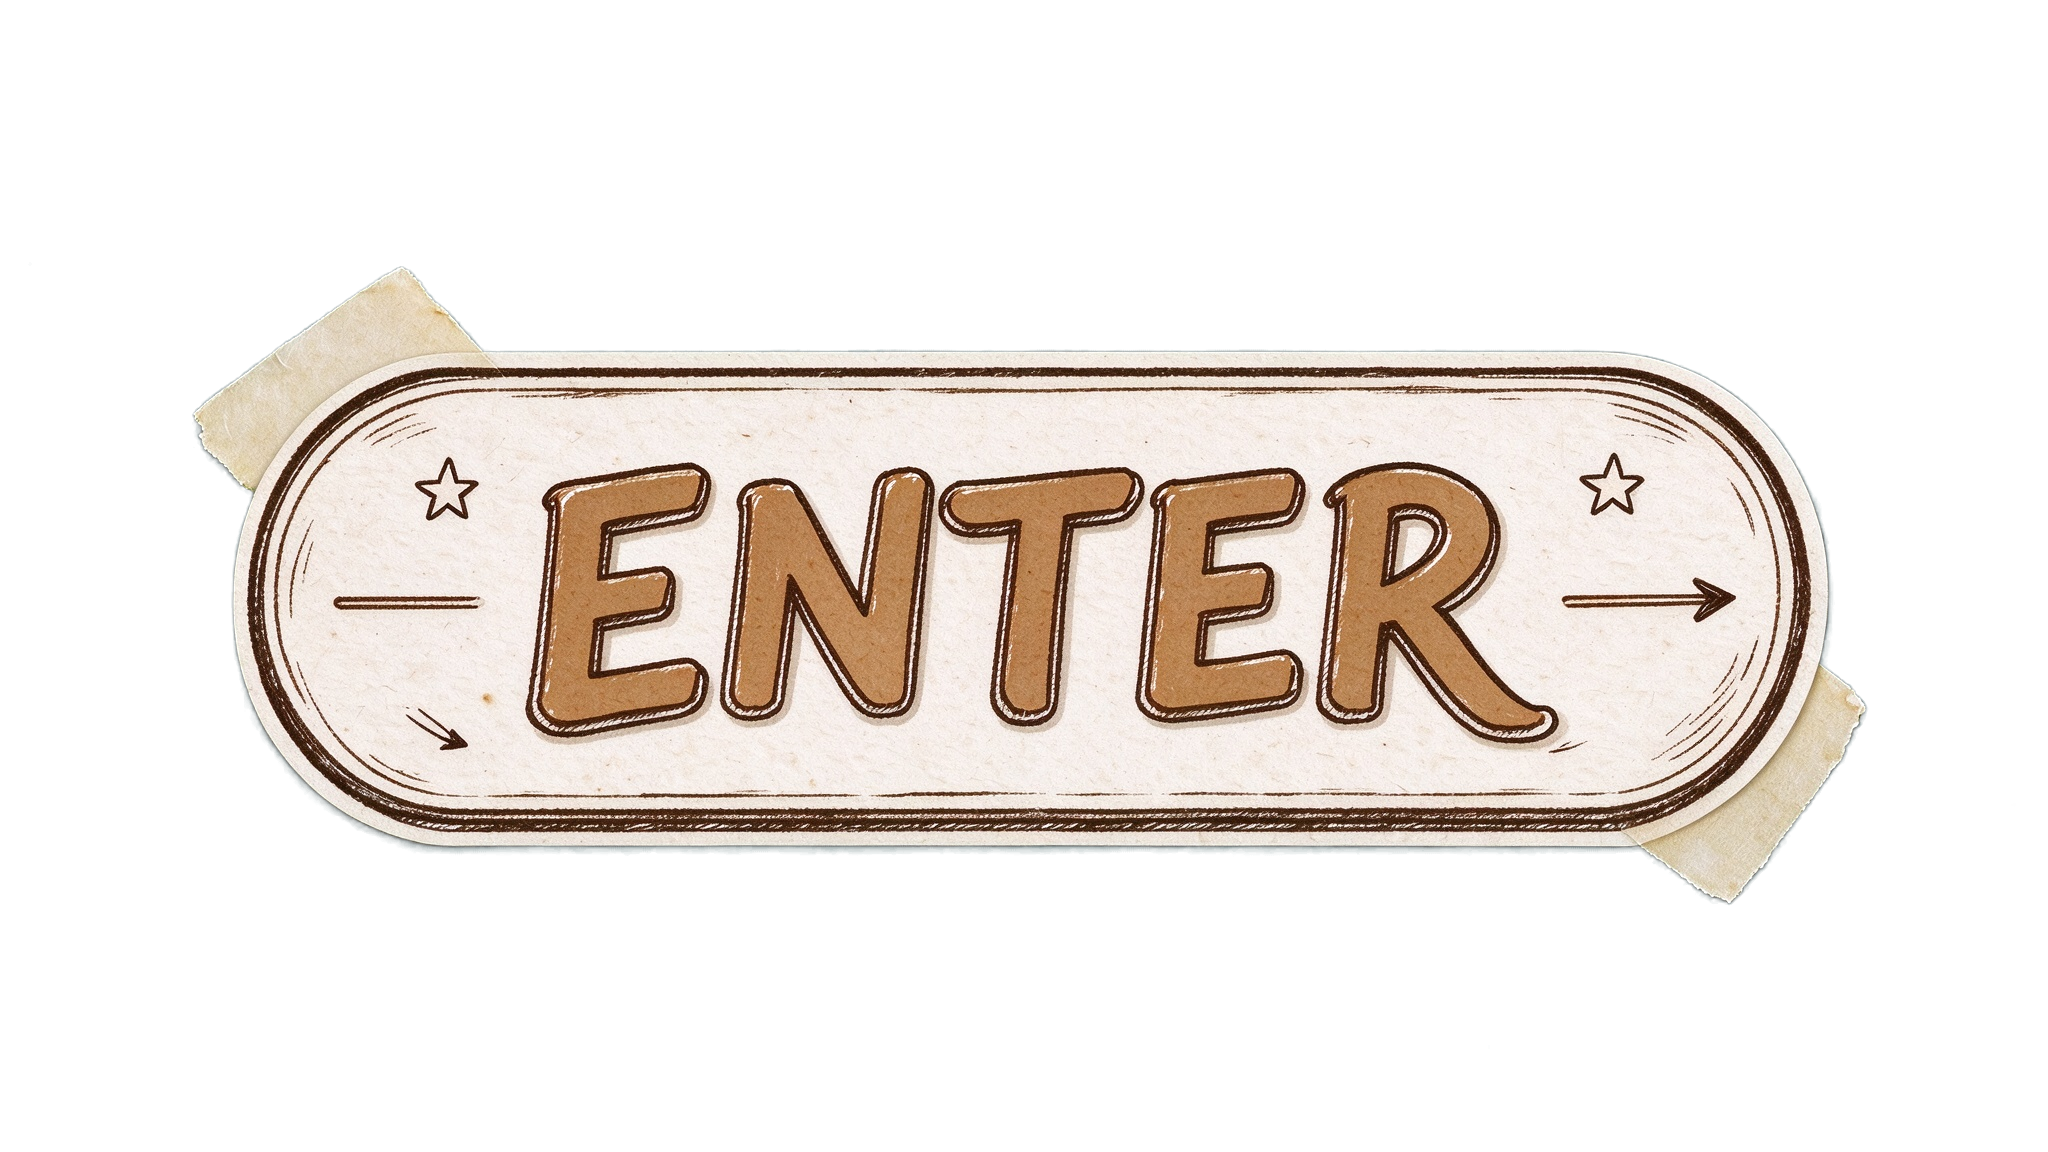
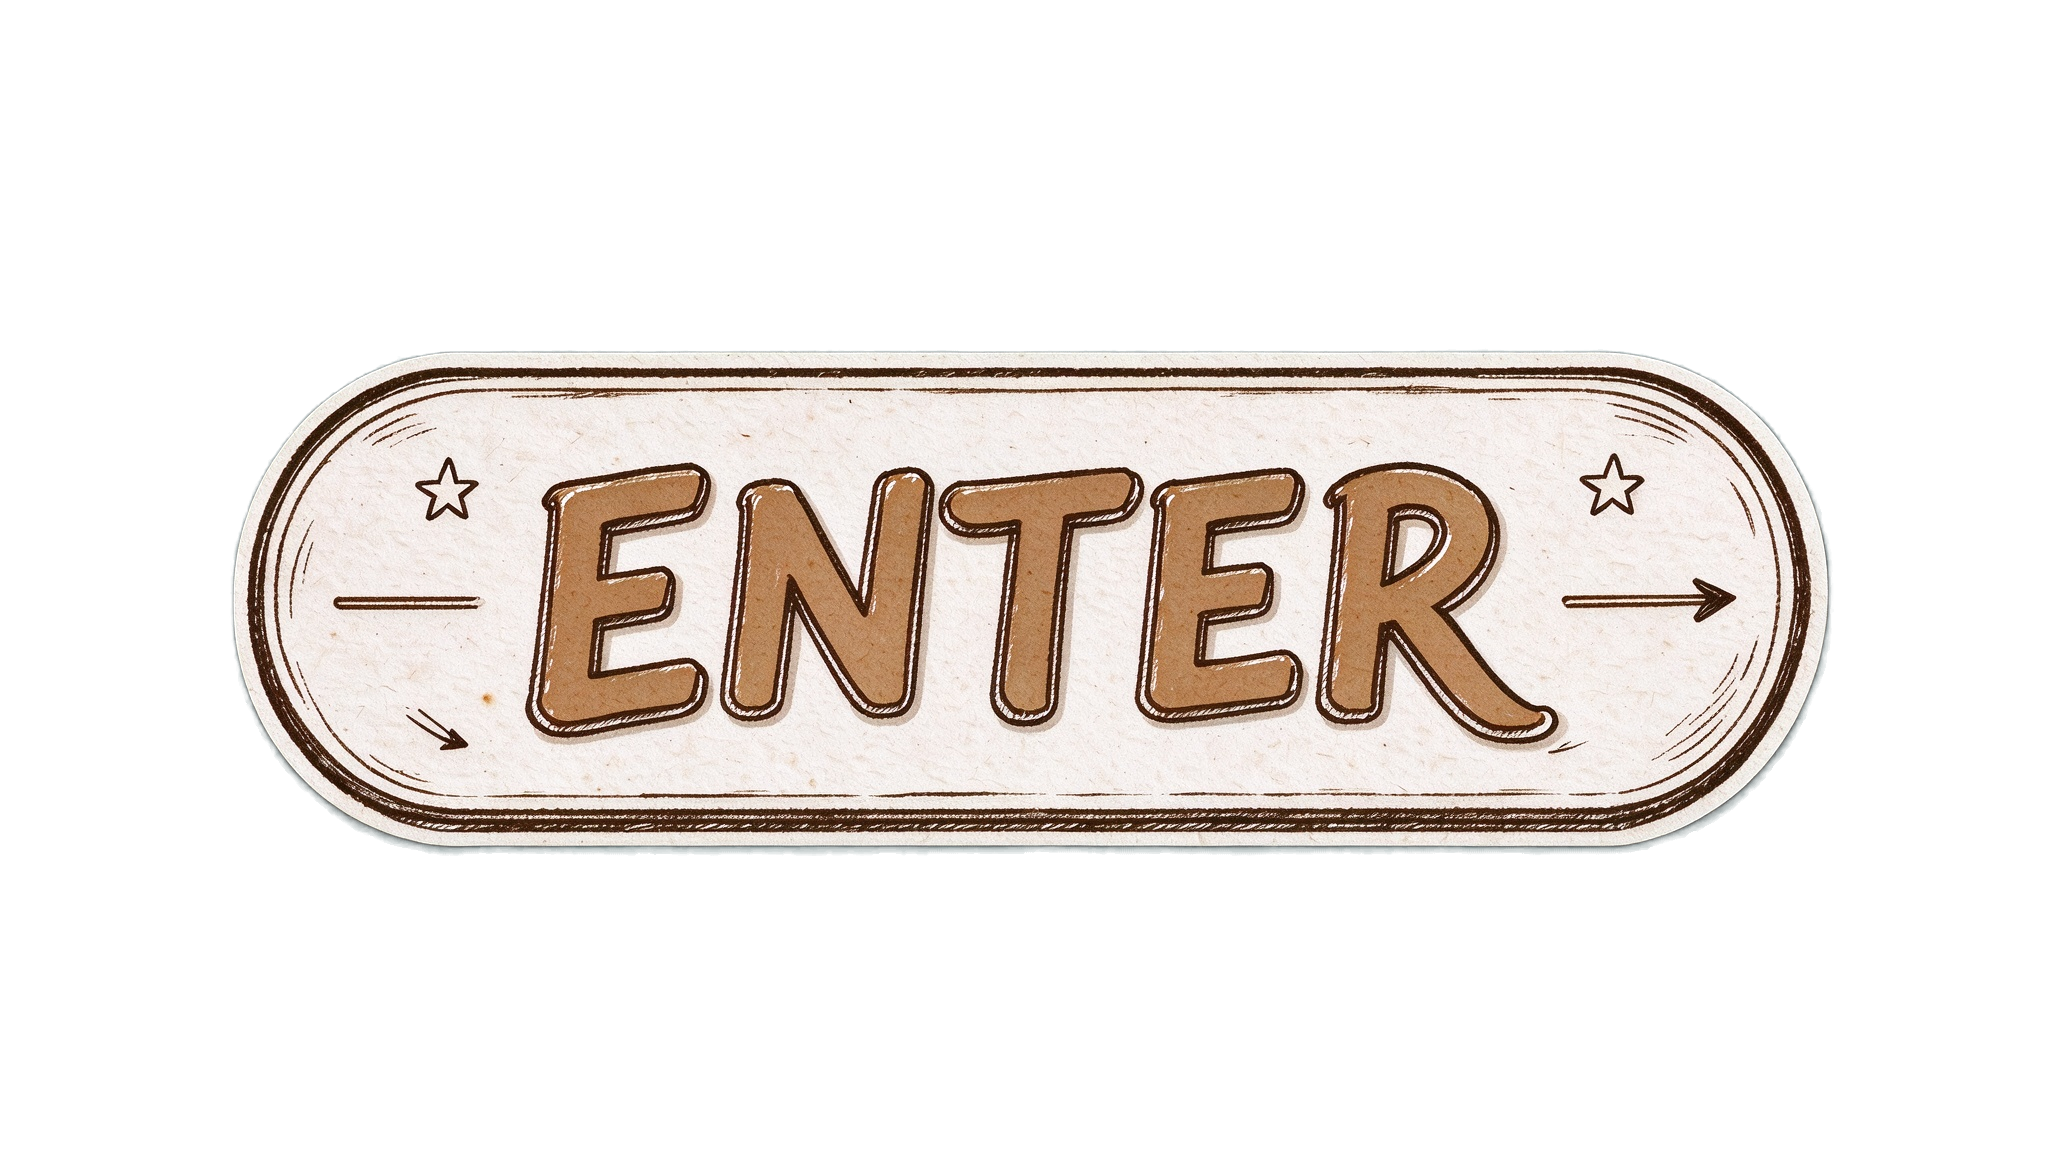
版本1：enter按钮动效（呼吸缩放+悬停/按压反馈）并更新enter素材

diff --git a/combined-v1-enter/styles.css b/combined-v1-enter/styles.css
@@ -79,13 +79,42 @@ body {
   top: 76%;
   width: 15cqw;
   transform: translate(-50%, -50%);
+  transform-origin: center;
   cursor: pointer;
   transition: opacity 0.6s ease;
+  animation: enterBreath 2.6s ease-in-out infinite;
 }
 
 .enter.is-faded {
   opacity: 0;
   pointer-events: none;
+}
+
+.enter__img {
+  display: block;
+  width: 100%;
+  height: auto;
+  transition: transform 0.22s ease, filter 0.22s ease;
+}
+
+.enter:hover .enter__img {
+  transform: scale(1.08);
+  filter: brightness(1.06) drop-shadow(0 6px 16px rgba(0, 0, 0, 0.18));
+}
+
+.enter:active .enter__img {
+  transform: scale(0.96);
+  filter: brightness(0.96);
+}
+
+@keyframes enterBreath {
+  0%,
+  100% {
+    transform: translate(-50%, -50%) scale(1);
+  }
+  50% {
+    transform: translate(-50%, -50%) scale(1.045);
+  }
 }
 
 .menu {

diff --git a/combined-v1-enter/index.html b/combined-v1-enter/index.html
@@ -11,7 +11,9 @@
     <img class="layer layer--bg" src="assets/background.png" alt="">
     <div class="layer layer--char" id="char" aria-hidden="true"></div>
     <div class="layer layer--text" id="text" aria-hidden="true"></div>
-    <img class="enter" id="enter" src="assets/buttons/enter.png" alt="进入">
+    <div class="enter" id="enter">
+      <img class="enter__img" src="assets/buttons/enter.png" alt="进入">
+    </div>
     <div class="menu" id="menu">
       <img class="menu__btn" src="assets/buttons/resume.png" alt="resume">
       <img class="menu__btn" src="assets/buttons/demo.png" alt="demo">
